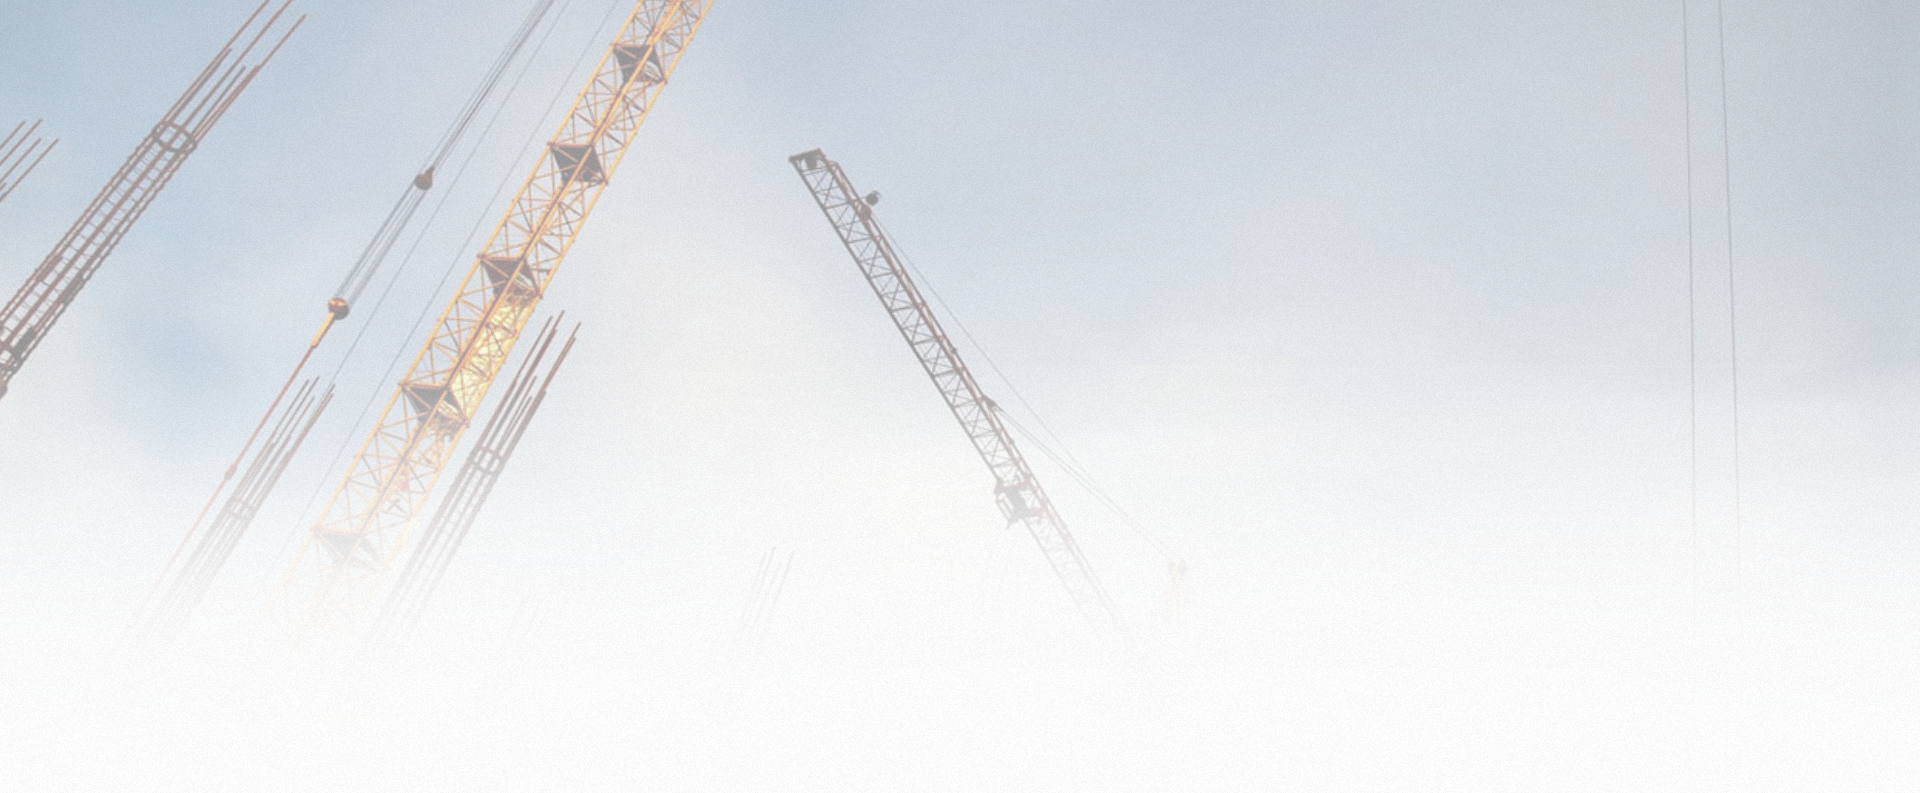
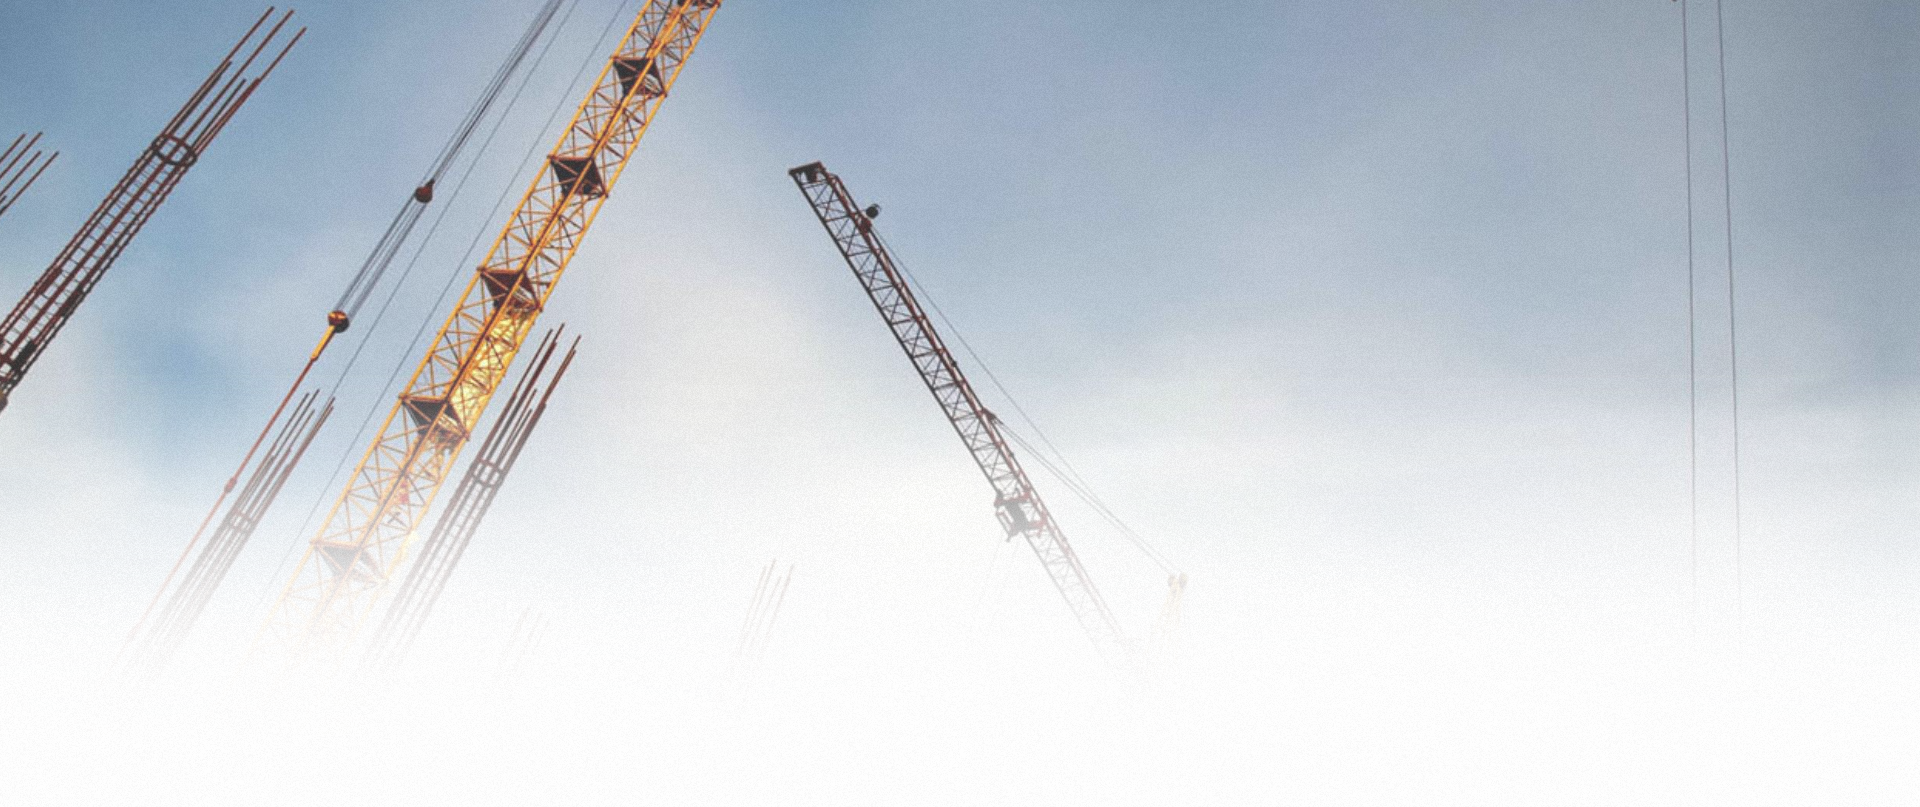
new file:   src/assets/admin-bg.png 	modified:   src/assets/ap-landing-bg.png 	modified:   src/components/addProduct.vue 	modified:   src/components/addProject.vue 	modified:   src/components/product.vue 	modified:   src/components/project.vue 	modified:   src/views/AdminHomeView.vue 	modified:   sr

diff --git a/src/views/auth/UnauthorizedView.vue b/src/views/auth/UnauthorizedView.vue
@@ -1,6 +1,65 @@
 <template>
-    <h1>
-        YOU ARE UNAUTHORIZED TO ACCESS THIS PAGE.
-
-    </h1>
+  <div class="uv-container">
+    <h1>404</h1>
+    <h2>Oops, Something went wrong</h2>
+    <p>You are unauthorized to access this page</p>
+    <RouterLink to="/login" class="uv-button">
+      <i class="fas fa-sign-out-alt"></i> Back to Login
+    </RouterLink>
+  </div>
 </template>
+
+<script setup>
+import { RouterLink } from "vue-router";
+</script>
+
+<style scoped>
+.uv-container {
+  position: fixed;
+  top: 0;
+  left: 0;
+  width: 100%;
+  height: 100%;
+  background-image: url("../../assets/ap-login-su-bg.jpg");
+  background-size: cover;
+  background-position: center;
+  background-repeat: no-repeat;
+  display: flex;
+  flex-direction: column;
+  justify-content: center;
+  align-items: center;
+  font-family: Poppins, sans-serif;
+  color: #1e1e1e;
+}
+
+h1 {
+  font-size: 150px;
+  margin-bottom: 0;
+  margin-top: 0;
+}
+
+h2 {
+  margin-top: 0;
+  font-size: 30px;
+  margin-bottom: 0;
+}
+
+.uv-button {
+  padding: 10px 20px;
+  background-color: rgba(205, 171, 100, 1);
+  color: #fff;
+  border: none;
+  border-radius: 4px;
+  cursor: pointer;
+  font-family: Poppins, sans-serif;
+  transition: background-color 0.5s ease;
+  width: 10%;
+  font-size: 15px;
+  border-radius: 30px;
+  text-decoration: none;
+  text-align: center;
+}
+.uv-button:hover {
+  background-color: rgb(166, 139, 81);
+}
+</style>

diff --git a/src/components/addProduct.vue b/src/components/addProduct.vue
@@ -79,7 +79,7 @@ const handleFileInputChange = (event) => {
 
 <style scoped>
 .mp-background {
-  background-image: url("../assets/ap-add-bg.jpg");
+  background-image: url("../assets/admin-bg.png");
   background-size: cover;
   background-position: center;
   background-repeat: no-repeat;
@@ -91,10 +91,10 @@ const handleFileInputChange = (event) => {
 
 .container {
   width: 90%;
-  background-color: #1a1a1a35;
+  background-color: #1e1e1e56;
   padding: 30px;
   box-shadow: 0 0 30px rgba(0, 0, 0, 0.1);
-  border-radius: 30px;
+  
 }
 
 .mp-header {
@@ -104,7 +104,6 @@ const handleFileInputChange = (event) => {
   color: #fff;
   font-size: 13px;
   font-family: Poppins, sans-serif;
-  font-weight: bold;
   align-items: center;
   text-align: center;
   border-bottom: 1px solid #e0e0e026;

diff --git a/src/views/AdminHomeView.vue b/src/views/AdminHomeView.vue
@@ -20,7 +20,6 @@ onMounted(async () => {
   <div class="adminhome-container">
     <div class="adminhome-background-div">
       <div id="home" class="opening-text">
-        <AdminNavbar />
         <h1>
           Welcome,
           <b>{{ userAccount?.session.user.user_metadata.firstName }}</b>
@@ -31,6 +30,7 @@ onMounted(async () => {
             industry.
           </p>
         </div>
+        <AdminNavbar />
       </div>
     </div>
     <!-- Overview -->
@@ -128,7 +128,7 @@ onMounted(async () => {
 }
 
 .adminhome-background-div {
-  background-image: url("/src/assets/ap-bg-2.jpg");
+  background-image: url("/src/assets/admin-bg.png");
   background-size: cover;
   background-position: center;
   background-repeat: no-repeat;

diff --git a/src/components/addProject.vue b/src/components/addProject.vue
@@ -98,7 +98,7 @@ const handleAddProject = async () => {
 
 <style scoped>
 .mp-background {
-  background-image: url("../assets/ap-add-bg.jpg");
+  background-image: url("../assets/admin-bg.png");
   background-size: cover;
   background-position: center;
   background-repeat: no-repeat;
@@ -113,7 +113,6 @@ const handleAddProject = async () => {
   background-color: #1a1a1a35;
   padding: 30px;
   box-shadow: 0 0 30px rgba(0, 0, 0, 0.1);
-  border-radius: 30px;
 }
 
 .mp-header {
@@ -123,7 +122,6 @@ const handleAddProject = async () => {
   color: #fff;
   font-size: 13px;
   font-family: Poppins, sans-serif;
-  font-weight: bold;
   align-items: center;
   text-align: center;
   border-bottom: 1px solid #e0e0e026;

diff --git a/src/views/auth/SignupView.vue b/src/views/auth/SignupView.vue
@@ -59,7 +59,7 @@ const handleSignup = async () => {
       </div>
       <div class="button-container">
         <button @click="handleSignup">Signup</button>
-        <RouterLink to="/login" class="login-link">Back to Login →</RouterLink>
+        <RouterLink to="/login" class="login-link"><i class="fas fa-sign-out-alt"></i> Back to Login</RouterLink>
       </div>
     </div>
   </div>

diff --git a/src/components/product.vue b/src/components/product.vue
@@ -72,11 +72,13 @@ onMounted(async () => {
   font-size: 15px;
   font-family: Poppins, sans-serif;
   font-weight: normal;
+  margin-bottom: 1%;
 }
 
 .photo-container {
   display: flex;
   flex-wrap: wrap;
+  margin-bottom: 3%;
 }
 
 .photo-column {

diff --git a/src/components/project.vue b/src/components/project.vue
@@ -75,7 +75,7 @@ onMounted(async () => {
   font-size: 15px;
   font-family: Poppins, sans-serif;
   font-weight: normal;
-  margin-bottom: -2%;
+  margin-bottom: -8%;
 }
 
 .project-grid {
